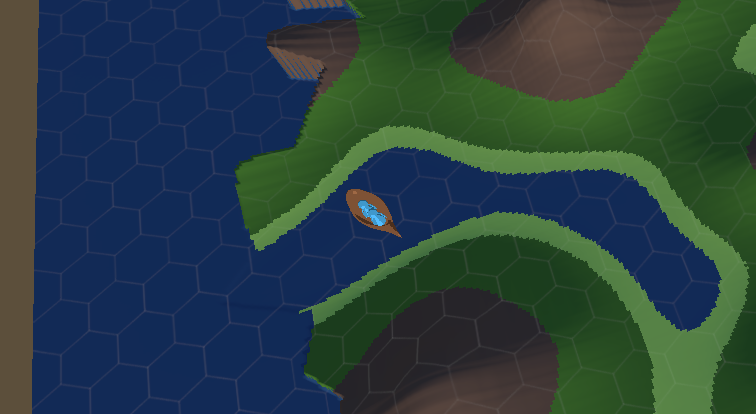
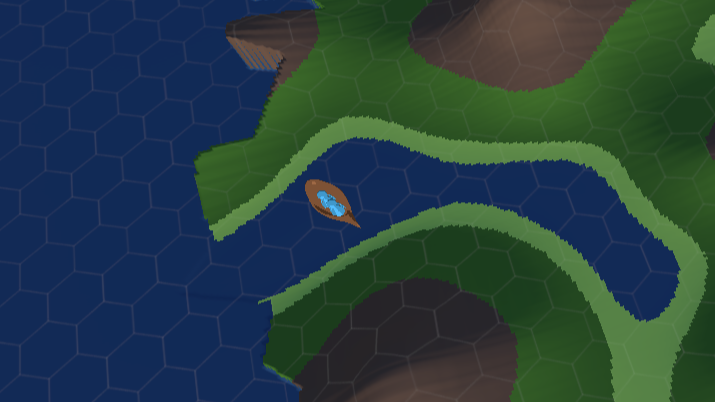
added civitas project

diff --git a/index.html b/index.html
@@ -195,22 +195,23 @@
 												</p>
 											</div>
 										</article>
-<!--										<article id="Civitas">-->
-<!--											<a href="Golf.html" class="image">-->
-<!--											<img src="images/Civitas.png" alt="A simplified blue person, wearing a laurel wreath, -->
-<!--											and holding their arms out to form the letter C. Between their hands is a globe, -->
-<!--											the landmasses of which form the letter G"/> </a>-->
-<!--											<div class="inner">-->
-<!--												<h4>Civitas</h4>-->
-<!--                                                <h6>Keywords: Game, Unity Engine, C#, 3D, Animation, NPCs, UI</h6>-->
-<!--												<p> An asymmetrical, three-player, role-based game, where two players -->
-<!--                                                    need to work together to infiltrate a restricted facility, guarded -->
-<!--                                                    by the third player and their fleet of security bots.-->
-<!--                                                    <br> <a href="Golf.html" target="_self" class="more">-->
-<!--                                                        read more →</a>-->
-<!--												</p>-->
-<!--											</div>-->
-<!--										</article>-->
+										<article id="Civitas">
+											<a href="Civitas.html" class="image">
+											<img src="images/Civitas/Civitas.png" alt="A simplified blue person, wearing a laurel wreath, 
+											and holding their arms out to form the letter C. Between their hands is a globe, 
+											the landmasses of which form the letter G"/> </a>
+											<div class="inner">
+												<h4>Genesis et Civitas</h4>
+                                                <h6>Keywords: Game, Unity Engine, C#, 3D, Animation, NPCs</h6>
+												<p> Genesis et Civitas is a top-down god game using a dynamically generated 
+                                                    world map. Players first take part in the creation of the world, 
+                                                    influencing the effects of natural laws, before guiding civilisations 
+                                                    and establishing themselves as their god.
+                                                    <br> <a href="Civitas.html" target="_self" class="more">
+                                                        read more →</a>
+												</p>
+											</div>
+										</article>
 										<article id="GolfGame">
 											<a href="Golf.html" class="image">
 											<img src="images/Golf/golf.png" alt="A 2D Golf Course"/> </a>
@@ -254,76 +255,54 @@
 												</p>
 											</div>
 										</article>
-<!--										<article id="Blender Animation">-->
-<!--											<a href="Maya.html" class="image">-->
-<!--											<img src="images/lizart.png" alt="Collection of different 3D Models"/> </a>-->
-<!--											<div class="inner">-->
-<!--												<h4>Rigging and Animating</h4>-->
-<!--                                                <h6>Keywords: Blender, Python, 3D, Animation</h6>-->
-<!--												<p> A collection of different 3D projects I created in Maya.-->
-<!--													<br/> <a href="Maya.html" target="_self" class="more">-->
-<!--														read more →</a>-->
-<!--												</p>-->
-<!--											</div>-->
-<!--										</article>-->
-<!--										<article id="Blender Physics">-->
-<!--											<a href="Maya.html" class="image">-->
-<!--											<img src="images/cubesmash.png" alt="Collection of different 3D Models"/> </a>-->
-<!--											<div class="inner">-->
-<!--												<h4>Physics Simulation</h4>-->
-<!--                                                <h6>Keywords: Blender, 3D, Physics, Animation</h6>-->
-<!--												<p> A collection of different 3D projects I created in Maya.-->
-<!--													<br/> <a href="Maya.html" target="_self" class="more">-->
-<!--														read more →</a>-->
-<!--												</p>-->
-<!--											</div>-->
-<!--										</article>-->
-<!--                                        <article id="BA">-->
-<!--                                            <a href="Ocean.html" class="image">-->
-<!--                                                <img src="images/BA.png" alt="OCEAN game logo"/> </a>-->
-<!--                                            <div class="inner">-->
-<!--                                                <h4>Level Generation with Wave Function Collapse in Unity</h4>-->
-<!--                                                <h6>Keywords: Bachelor Thesis, Unity Engine, C#, 2D, Procedural Generation</h6>-->
-<!--                                                <p> For this paper I took a closer look at the Wave Function Collapse -->
-<!--                                                    (WFC) algorithm to explore what makes it effective, what its -->
-<!--                                                    limitations are, and how it can be extended. I implemented a variety -->
-<!--                                                    of different modifications and extensions of the WFC algorithm and -->
-<!--                                                    tested them with different test scenarios and requirements. <br>-->
-<!--                                                    The goal was to investigate the potential of WFC, specifically for -->
-<!--                                                    procedural level generation from a tileset, to make the process easier and faster.-->
-<!--                                                    <br/> <a href="Ocean.html" target="_self" class="more">-->
-<!--                                                        read more →</a>-->
-<!--                                                </p>-->
-<!--                                            </div>-->
-<!--                                        </article>-->
-<!--                                        <article id="MA">-->
-<!--                                            <a href="Ocean.html" class="image">-->
-<!--                                                <img src="images/MA.png" alt="OCEAN game logo"/> </a>-->
-<!--                                            <div class="inner">-->
-<!--                                                <h4>Procedural Animations with SoftBody Physics in Godot</h4>-->
-<!--                                                <h6>Keywords: Master Thesis, Godot Engine, C#, 2D, 3D Physics,-->
-<!--                                                    Animation, Procedural Generation,</h6>-->
-<!--                                                <p> This paper explores the possibilities of procedurally generated -->
-<!--                                                    animations that are adaptive to user input and environments in -->
-<!--                                                    combination with deformable meshes, simulated through SoftBody physics. -->
-<!--                                                    Due to a focus on applications in the indie game scene, the goals of -->
-<!--                                                    this paper are not to find the most realistically accurate solutions, -->
-<!--                                                    but rather to achieve a blend between performance lightening optimizations -->
-<!--                                                    and visually pleasing stylization, all while relying exclusively on -->
-<!--                                                    freely available, open-source tools, like the Godot game engine and -->
-<!--                                                    the 3D modeling and animating software Blender. <br>-->
-<!--                                                    The results are a character mesh, which has been separated into -->
-<!--                                                    distinct main body sections, to allow for faster and more stable -->
-<!--                                                    physics simulation created by a custom written SoftBody physics class, -->
-<!--                                                    based on the Mass-Spring-Model. Additionally, the mesh has been -->
-<!--                                                    internally subdivided to allow for secure attachments to a procedurally -->
-<!--                                                    animated character rig, without interfering with the soft physics of -->
-<!--                                                    the outer mesh surface.-->
-<!--                                                    <br/> <a href="Ocean.html" target="_self" class="more">-->
-<!--                                                        read more →</a>-->
-<!--                                                </p>-->
-<!--                                            </div>-->
-<!--                                        </article>-->
+<!--									<article id="BA">
+                                            <a href="Ocean.html" class="image">
+                                                <img src="images/BA.png" alt="OCEAN game logo"/> </a>
+                                            <div class="inner">
+                                                <h4>Bachelor Thesis</h4>
+                                                <h6>Keywords: Unity Engine, C#, 2D, Procedural Generation</h6>
+                                                <p> Level Generation with Wave Function Collapse in Unity <br>
+                                                    For this paper I took a closer look at the Wave Function Collapse 
+                                                    (WFC) algorithm to explore what makes it effective, what its 
+                                                    limitations are, and how it can be extended. I implemented a variety 
+                                                    of different modifications and extensions of the WFC algorithm and 
+                                                    tested them with different test scenarios and requirements. <br>
+                                                    The goal was to investigate the potential of WFC, specifically for 
+                                                    procedural level generation from a tileset, to make the process easier and faster.
+                                                    <br/> <a href="Ocean.html" target="_self" class="more">
+                                                        read more →</a>
+                                                </p>
+                                            </div>
+                                        </article> -->
+<!--                                        <article id="MA">
+                                            <a href="Ocean.html" class="image">
+                                                <img src="images/MA.png" alt="OCEAN game logo"/> </a>
+                                            <div class="inner">
+                                                <h4>Master Thesis</h4>
+                                                <h6>Keywords: Master Thesis, Godot Engine, C#, 2D, 3D Physics,
+                                                    Animation, Procedural Generation,</h6>
+                                                <p> Procedural Animations with SoftBody Physics in Godot <br> 
+                                                    This paper explores the possibilities of procedurally generated 
+                                                    animations that are adaptive to user input and environments in 
+                                                    combination with deformable meshes, simulated through SoftBody physics. 
+                                                    Due to a focus on applications in the indie game scene, the goals of 
+                                                    this paper are not to find the most realistically accurate solutions, 
+                                                    but rather to achieve a blend between performance lightening optimizations 
+                                                    and visually pleasing stylization, all while relying exclusively on 
+                                                    freely available, open-source tools, like the Godot game engine and 
+                                                    the 3D modeling and animating software Blender. <br>
+                                                    The results are a character mesh, which has been separated into 
+                                                    distinct main body sections, to allow for faster and more stable 
+                                                    physics simulation created by a custom written SoftBody physics class, 
+                                                    based on the Mass-Spring-Model. Additionally, the mesh has been 
+                                                    internally subdivided to allow for secure attachments to a procedurally 
+                                                    animated character rig, without interfering with the soft physics of 
+                                                    the outer mesh surface.
+                                                    <br/> <a href="Ocean.html" target="_self" class="more">
+                                                        read more →</a>
+                                                </p>
+                                            </div>
+                                        </article>-->
 									</div>
 								</div>
 							</section>

diff --git a/Civitas.html b/Civitas.html
@@ -6,7 +6,7 @@
 -->
 <html lang="en">
 <head>
-    <title>Portfolio of Liz Kintzel</title>
+    <title>Liz Kintzel: Genesis et Civitas</title>
     <meta charset="utf-8" />
     <meta name="viewport" content="width=device-width, initial-scale=1, user-scalable=no" />
     <link rel="stylesheet" href="assets/css/main.css" />
@@ -86,12 +86,9 @@
                     Then, at the beginning of Civitas, this world gets imported and converted to be further be played on.
                     <br>
                     Our main goal was the simulation of multiple parallel civilisations, which need to compete or cooperate 
-                    for the resources the land offers in order to survive and thrive. At the same time however, we wanted
-                    to allow the player to influence the worlds development
-                    
-                    - guide civilizations to keep them alive <br>
-                    - promote a mortal to your personal saviour, your representetive on the world who can go from settlement
-                    to settlement and assist your creations <br>
+                    with one another for the resources the land offers in order to survive and thrive. At the same time 
+                    however, we wanted to allow the player to influence the worlds development, guiding the civilisations
+                    to keep them alive and happy.
                 </p>
 
                 <p>
@@ -118,40 +115,30 @@
                     members had to unexpectedly leave the project, we had to re-evaluate and prioritise tasks. Splitting 
                     the workload from five people to four was challenging but possible thanks to communication and collaboration.
                     <br><br>
-                    My responsibilities in this project were primarily the implementation of the NPCs, and any aspects
-                    that were related to them. This included, for example, the setup of the dynamic NavMesh, 
-                    to enable the drones to move around the level, while reacting to the changing layout of the locked 
-                    and unlocked doors.
+                    In this project I had two major topic i was responsible for: the creation and implementation of the NPCs, 
+                    and the import and conversion of the Genesis map data: <br>
+                </p>
                     <ul class="text">
-                        <li> hex grid + converting continuous values to discrete ones </li>
-                        <li> NPCS (again) </li>
-                        <li> hex grid pathfinding </li>
-                        <li> civ behaviour: settling, seeking resources, splitting, merging, dying </li>
-                        <li> modeling and animation of npcs, tools, and buildings 
-                        <ul>
-                            <li> test</li>
-                            <li> test</li>
+                        <li> Genesis data <ul>
+                            <li> importing world data and generating map geometry from it </li>
+                            <li> mapping genesis data to NPC needs (e.g. water->thirst, fertility->hunger)  </li>
+                            <li> converting continuous map values to a discreet hexagonal grid </li>
+                            <li> modifying specific genesis values via player skills </li>
                         </ul></li>
-                        <li> test</li>
+                        <li> NPCs <ul>
+                            <li> modeling, rigging of NPC models </li>
+                            <li> animation of several actions including: walking, tool usage, swimming, sailing, praying, 
+                                talking, dancing, idling, etc. </li>
+                            <li> pathfinding and movement across a hexagonal grid with varying traversing costs</li>
+                            <li> civilisation behaviour: seeking resources, settling, splitting, merging, dying </li>
+                            <li> modeling of buildings + ruined building variants</li>
+                        </ul></li>
                     </ul>
-                    <table>
-                        <tr>
-                            <td><img src="images/Civitas/axe.gif" style="width:100%"></td>
-                            <td><img src="images/Civitas/hoe.gif" style="width:100%"></td>
-                            <td><img src="images/Civitas/pickaxe.gif" style="width:100%"></td>
-                        </tr>
-                        <tr>
-                            <td><img src="images/Civitas/walk.gif" style="width:100%"></td>
-                            <td><img src="images/Civitas/preach.gif" style="width:100%"></td>
-                            <td><img src="images/Civitas/Party.gif" style="width:100%"></td>
-                        </tr>
-                    </table>
-                    
-                    
+                <p>
+                    <br> <a href="index.html#Civitas" target="_self" class="back">
+                        ← back to Main Page</a>
                 </p>
                 
-                    <a href="index.html#Civitas" target="_self" class="back">
-                        ← back to Main Page</a>
 
             </div>
         </section>
@@ -159,20 +146,76 @@
         <section id="Gallery">
             <div class="container">
                 <h3>Gallery</h3>
-                <p></p>
 
-<!--                <table>-->
-<!--                    <tr>-->
-<!--                        <td><img src="images/Civitas/Earth.png" style="width:100%"></td>-->
-<!--                        <td><img src="images/Civitas/Land.png" style="width:100%"></td>-->
-<!--                        <td><img src="images/Civitas/Weather.png" style="width:100%"></td>-->
-<!--                    </tr>-->
-<!--                </table>-->
-               
-                        <td><img src="images/Civitas/Export.png" style="width:100%"></td>
-                        <td><img src="images/Civitas/CivitasONLY-1.png" style="width:100%"></td>
-                        <td><img src="images/Civitas/CivitasONLY-2.png" style="width:100%"></td>
-                        <td><img src="images/Civitas/CivitasONLY-3.png" style="width:100%"></td>
+                <table>
+                    <tr class="image">
+                        <td><img src="images/Civitas/axe.gif" style="width:100%">
+                            <div class="ImgSub">Tree-chopping animation</div></td>
+                        <td><img src="images/Civitas/hoe.gif" style="width:100%">
+                            <div class="ImgSub">Farming animation</div></td>
+                        <td><img src="images/Civitas/pickaxe.gif" style="width:100%">
+                            <div class="ImgSub">Mining animation</div></td>
+                    </tr>
+                    <tr class="image">
+                        <td><img src="images/Civitas/walk.gif" style="width:100%">
+                            <div class="ImgSub">Walking animation</div></td>
+                        <td><img src="images/Civitas/preach.gif" style="width:100%">
+                            <div class="ImgSub">Saviour Preaching animation</div></td>
+                        <td><img src="images/Civitas/Party.gif" style="width:100%">
+                            <div class="ImgSub">Dancing animations variants</div></td>
+                    </tr>
+                </table>
+                <table class="image">
+                    <tr>
+                        <td style="width:50%"><img src="images/Civitas/boats1.png" style="width:100%"></td>
+                        <td style="width:50%"> <img src="images/Civitas/boats2.png" style="width:100%"></td>
+                    </tr>
+                </table>
+                <div class="ImgSub">traveling NPCs crossing water via boats</div>
+                
+                <img src="images/Civitas/ruin.png" style="width:100%">
+                <div class="ImgSub">ruined city with dead population</div>
+                
+                <img src="images/Civitas/skilltree.png" style="width:100%">
+                <div class="ImgSub">unlockable skill tree</div>
+
+                <img src="images/Civitas/map.png" style="width:100%">
+                <div class="ImgSub">world geometry generated from genesis data</div>
+
+                <table class="image">
+                    <tr>
+                        <td style="width:50%"><img src="images/Civitas/heatmap1.png" style="width:100%"></td>
+                        <td style="width:50%"><img src="images/Civitas/heatmap2.png" style="width:100%"></td>
+                    </tr>
+                    <tr>
+                        <td style="width:50%"><img src="images/Civitas/heatmap3.png" style="width:100%"></td>
+                        <td style="width:50%"><img src="images/Civitas/heatmap4.png" style="width:100%"></td>
+                    </tr>
+                </table>
+                <div class="ImgSub">heatmap overlays visualizing map data</div>
+                
+                <h4 align="center"> Promotional posters created for our booths at our uni's project fair: </h4>
+                <table>
+                    <tr>
+                        <td style="width:33%"><img src="images/Civitas/Earth.png" style="width:100%"></td>
+                        <td style="width:33%"> <img src="images/Civitas/Land.png" style="width:100%"></td>
+                        <td style="width:33%"> <img src="images/Civitas/Weather.png" style="width:100%"></td>
+                    </tr>
+                    <tr>
+                        <td><img src="images/Civitas/Export.png" style="width:320%"></td>
+                    </tr>
+                    <tr>
+                        <td><img src="images/Civitas/CivitasONLY-1.png" style="width:320%"></td>
+                    </tr>
+                    <tr>
+                        <td><img src="images/Civitas/CivitasONLY-2.png" style="width:320%"></td>
+                    </tr>
+                    <tr>
+                        <td><img src="images/Civitas/CivitasONLY-3.png" style="width:320%"></td>
+                    </tr>
+                   
+                </table>
+              
                 <p>
                     <a href="index.html#Civitas" target="_self" class="back">
                         ← back to Main Page</a>

diff --git a/Maya.html b/Maya.html
@@ -6,7 +6,7 @@
 -->
 <html lang="en">
 <head>
-  <title>Portfolio of Elisabeth Kintzel</title>
+  <title>Liz Kintzel: Blender</title>
   <meta charset="utf-8" />
   <meta name="viewport" content="width=device-width, initial-scale=1, user-scalable=no" />
   <link rel="stylesheet" href="assets/css/main.css" />
@@ -18,7 +18,7 @@
     <header>
         <span class="image avatar"><img src="images/lizart.png" alt="" /></span>
         <h1 id="logo"><a href="#">Liz Kintzel</a></h1>
-        <p>3D Modeling</p>
+        <p>Blender Projects</p>
     </header>
     <nav id="nav">
         <ul>

diff --git a/Golf.html b/Golf.html
@@ -6,7 +6,7 @@
 -->
 <html lang="en">
 <head>
-    <title>Portfolio of Liz Kintzel</title>
+    <title>Liz Kintzel: Golf Game</title>
     <meta charset="utf-8" />
     <meta name="viewport" content="width=device-width, initial-scale=1, user-scalable=no" />
     <link rel="stylesheet" href="assets/css/main.css" />

diff --git a/Ocean.html b/Ocean.html
@@ -6,7 +6,7 @@
 -->
 <html lang="en">
 <head>
-    <title>Portfolio of Liz Kintzel</title>
+    <title>Liz Kintzel: Ocean</title>
     <meta charset="utf-8" />
     <meta name="viewport" content="width=device-width, initial-scale=1, user-scalable=no" />
     <link rel="stylesheet" href="assets/css/main.css" />

diff --git a/Giko.html b/Giko.html
@@ -6,7 +6,7 @@
 -->
 <html lang="en">
 <head>
-    <title>Portfolio of Liz Kintzel</title>
+    <title>Liz Kintzel: GIKO</title>
     <meta charset="utf-8" />
     <meta name="viewport" content="width=device-width, initial-scale=1, user-scalable=no" />
     <link rel="stylesheet" href="assets/css/main.css" />
